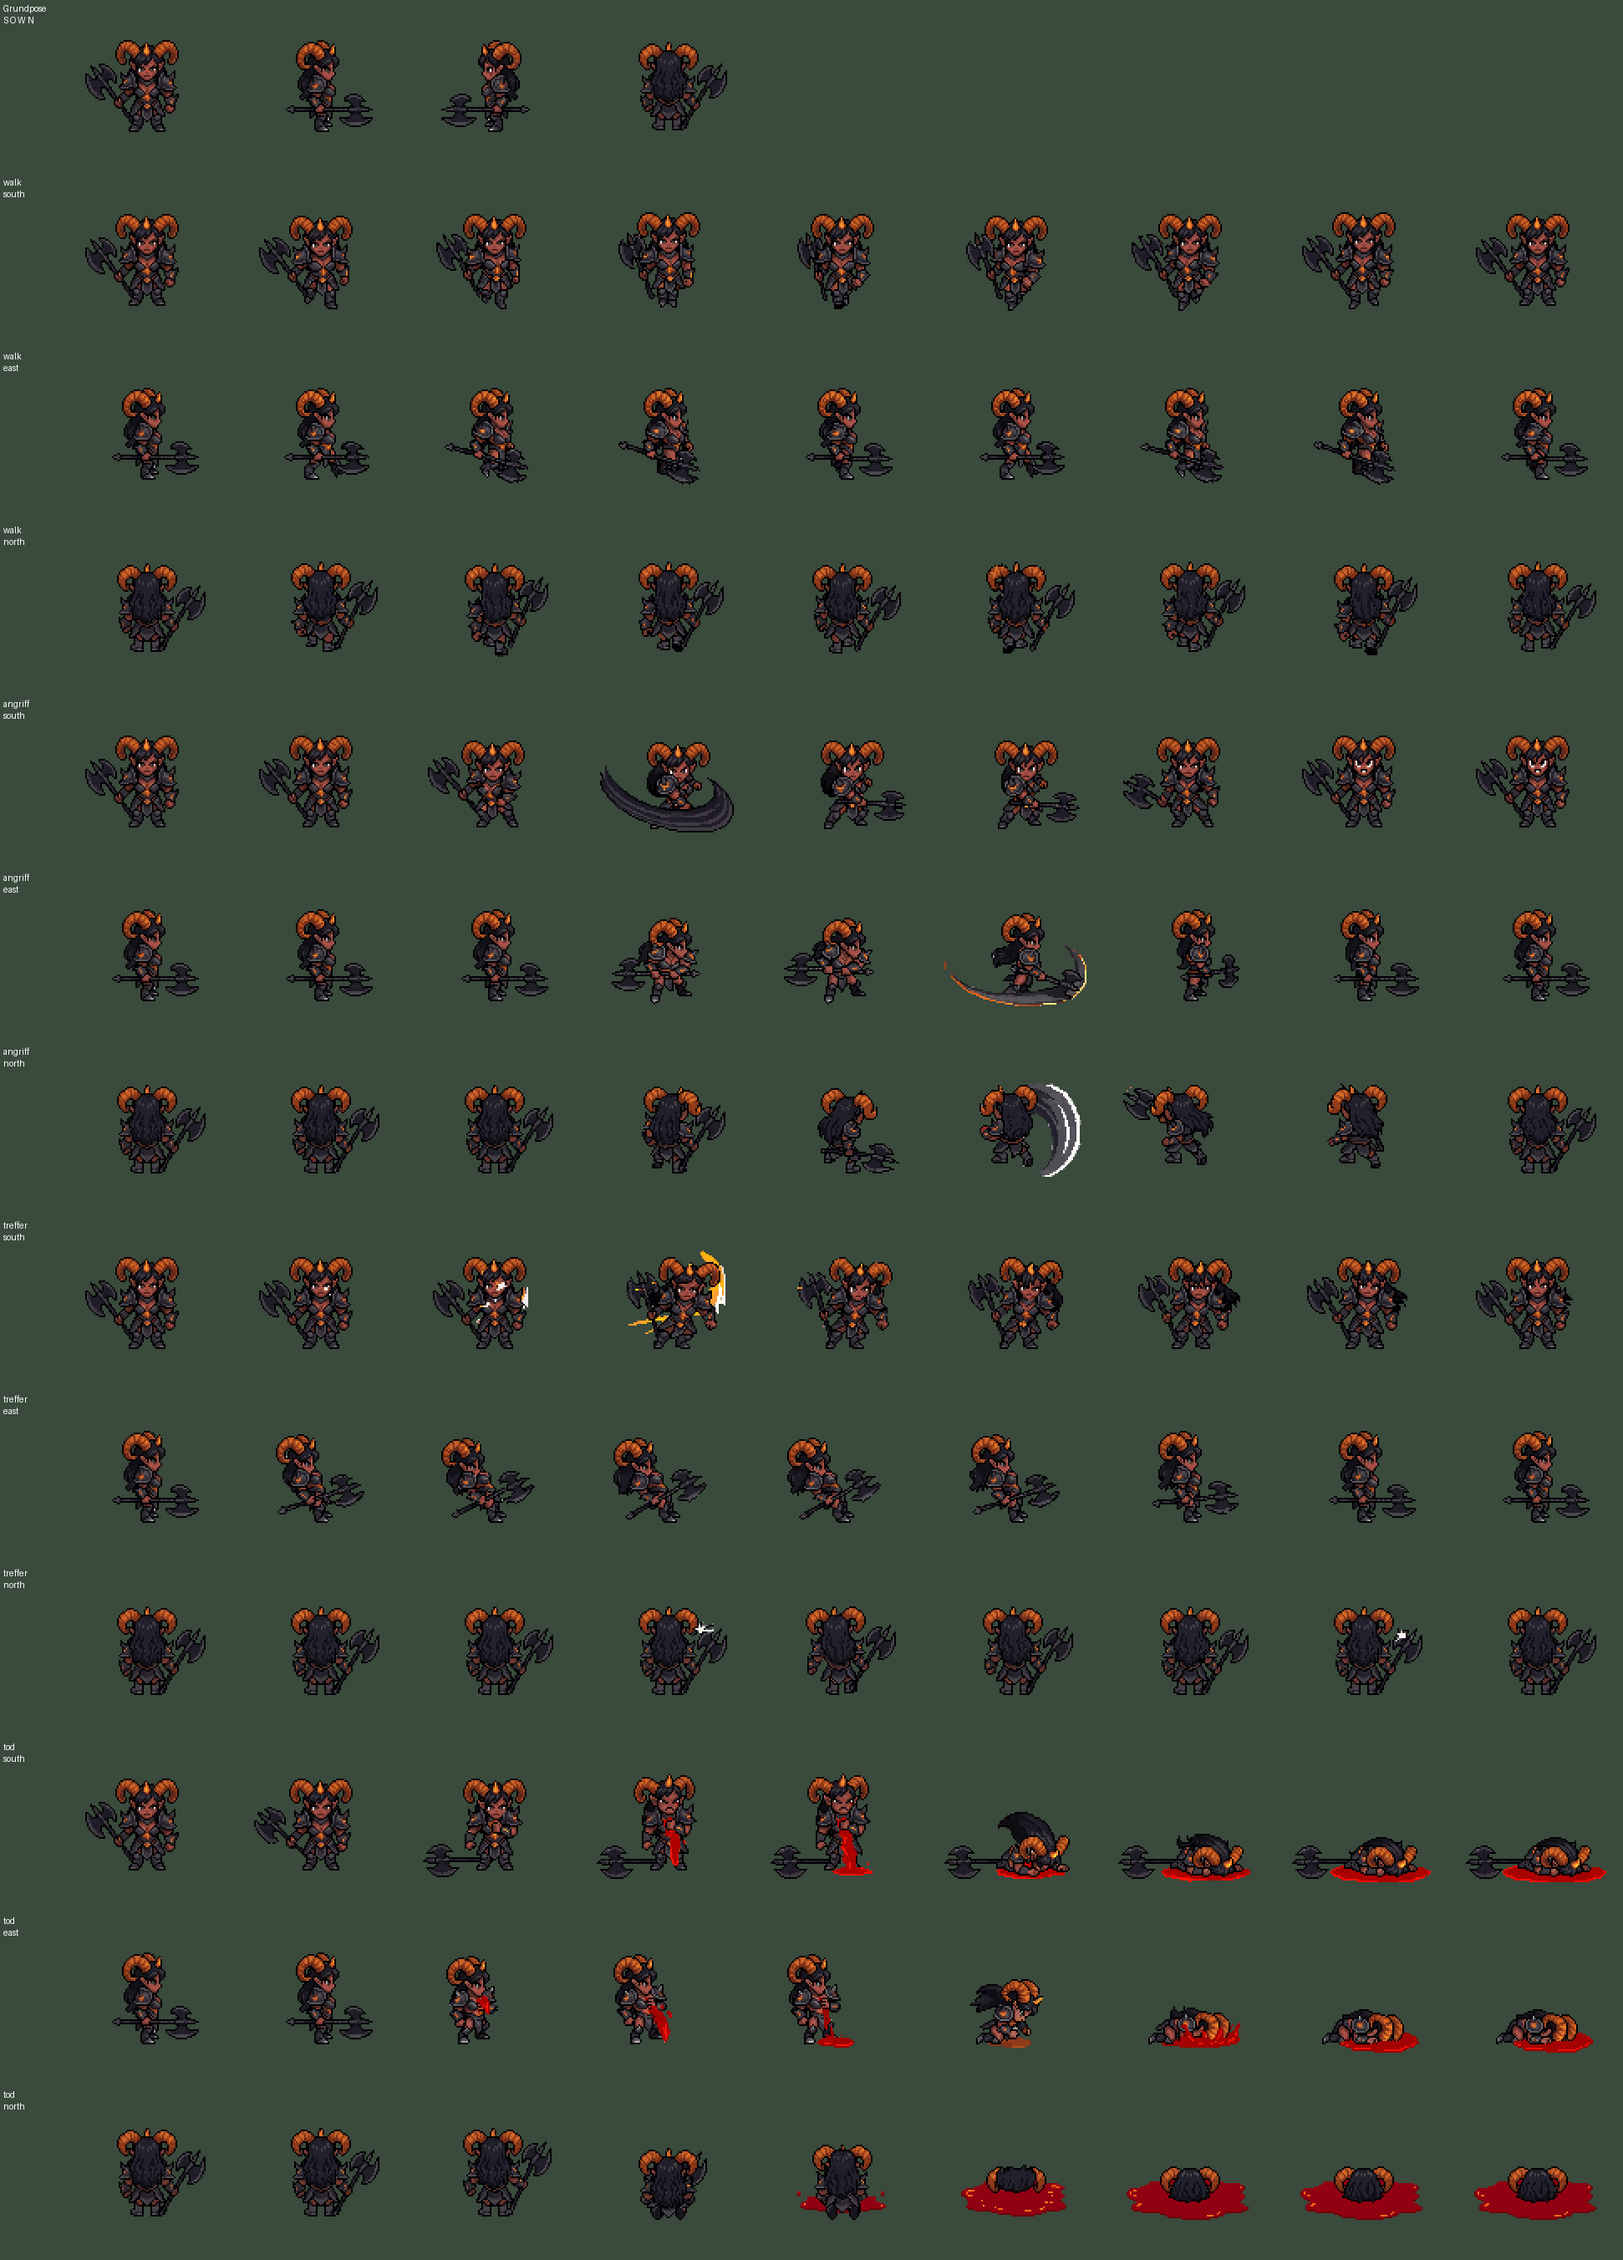
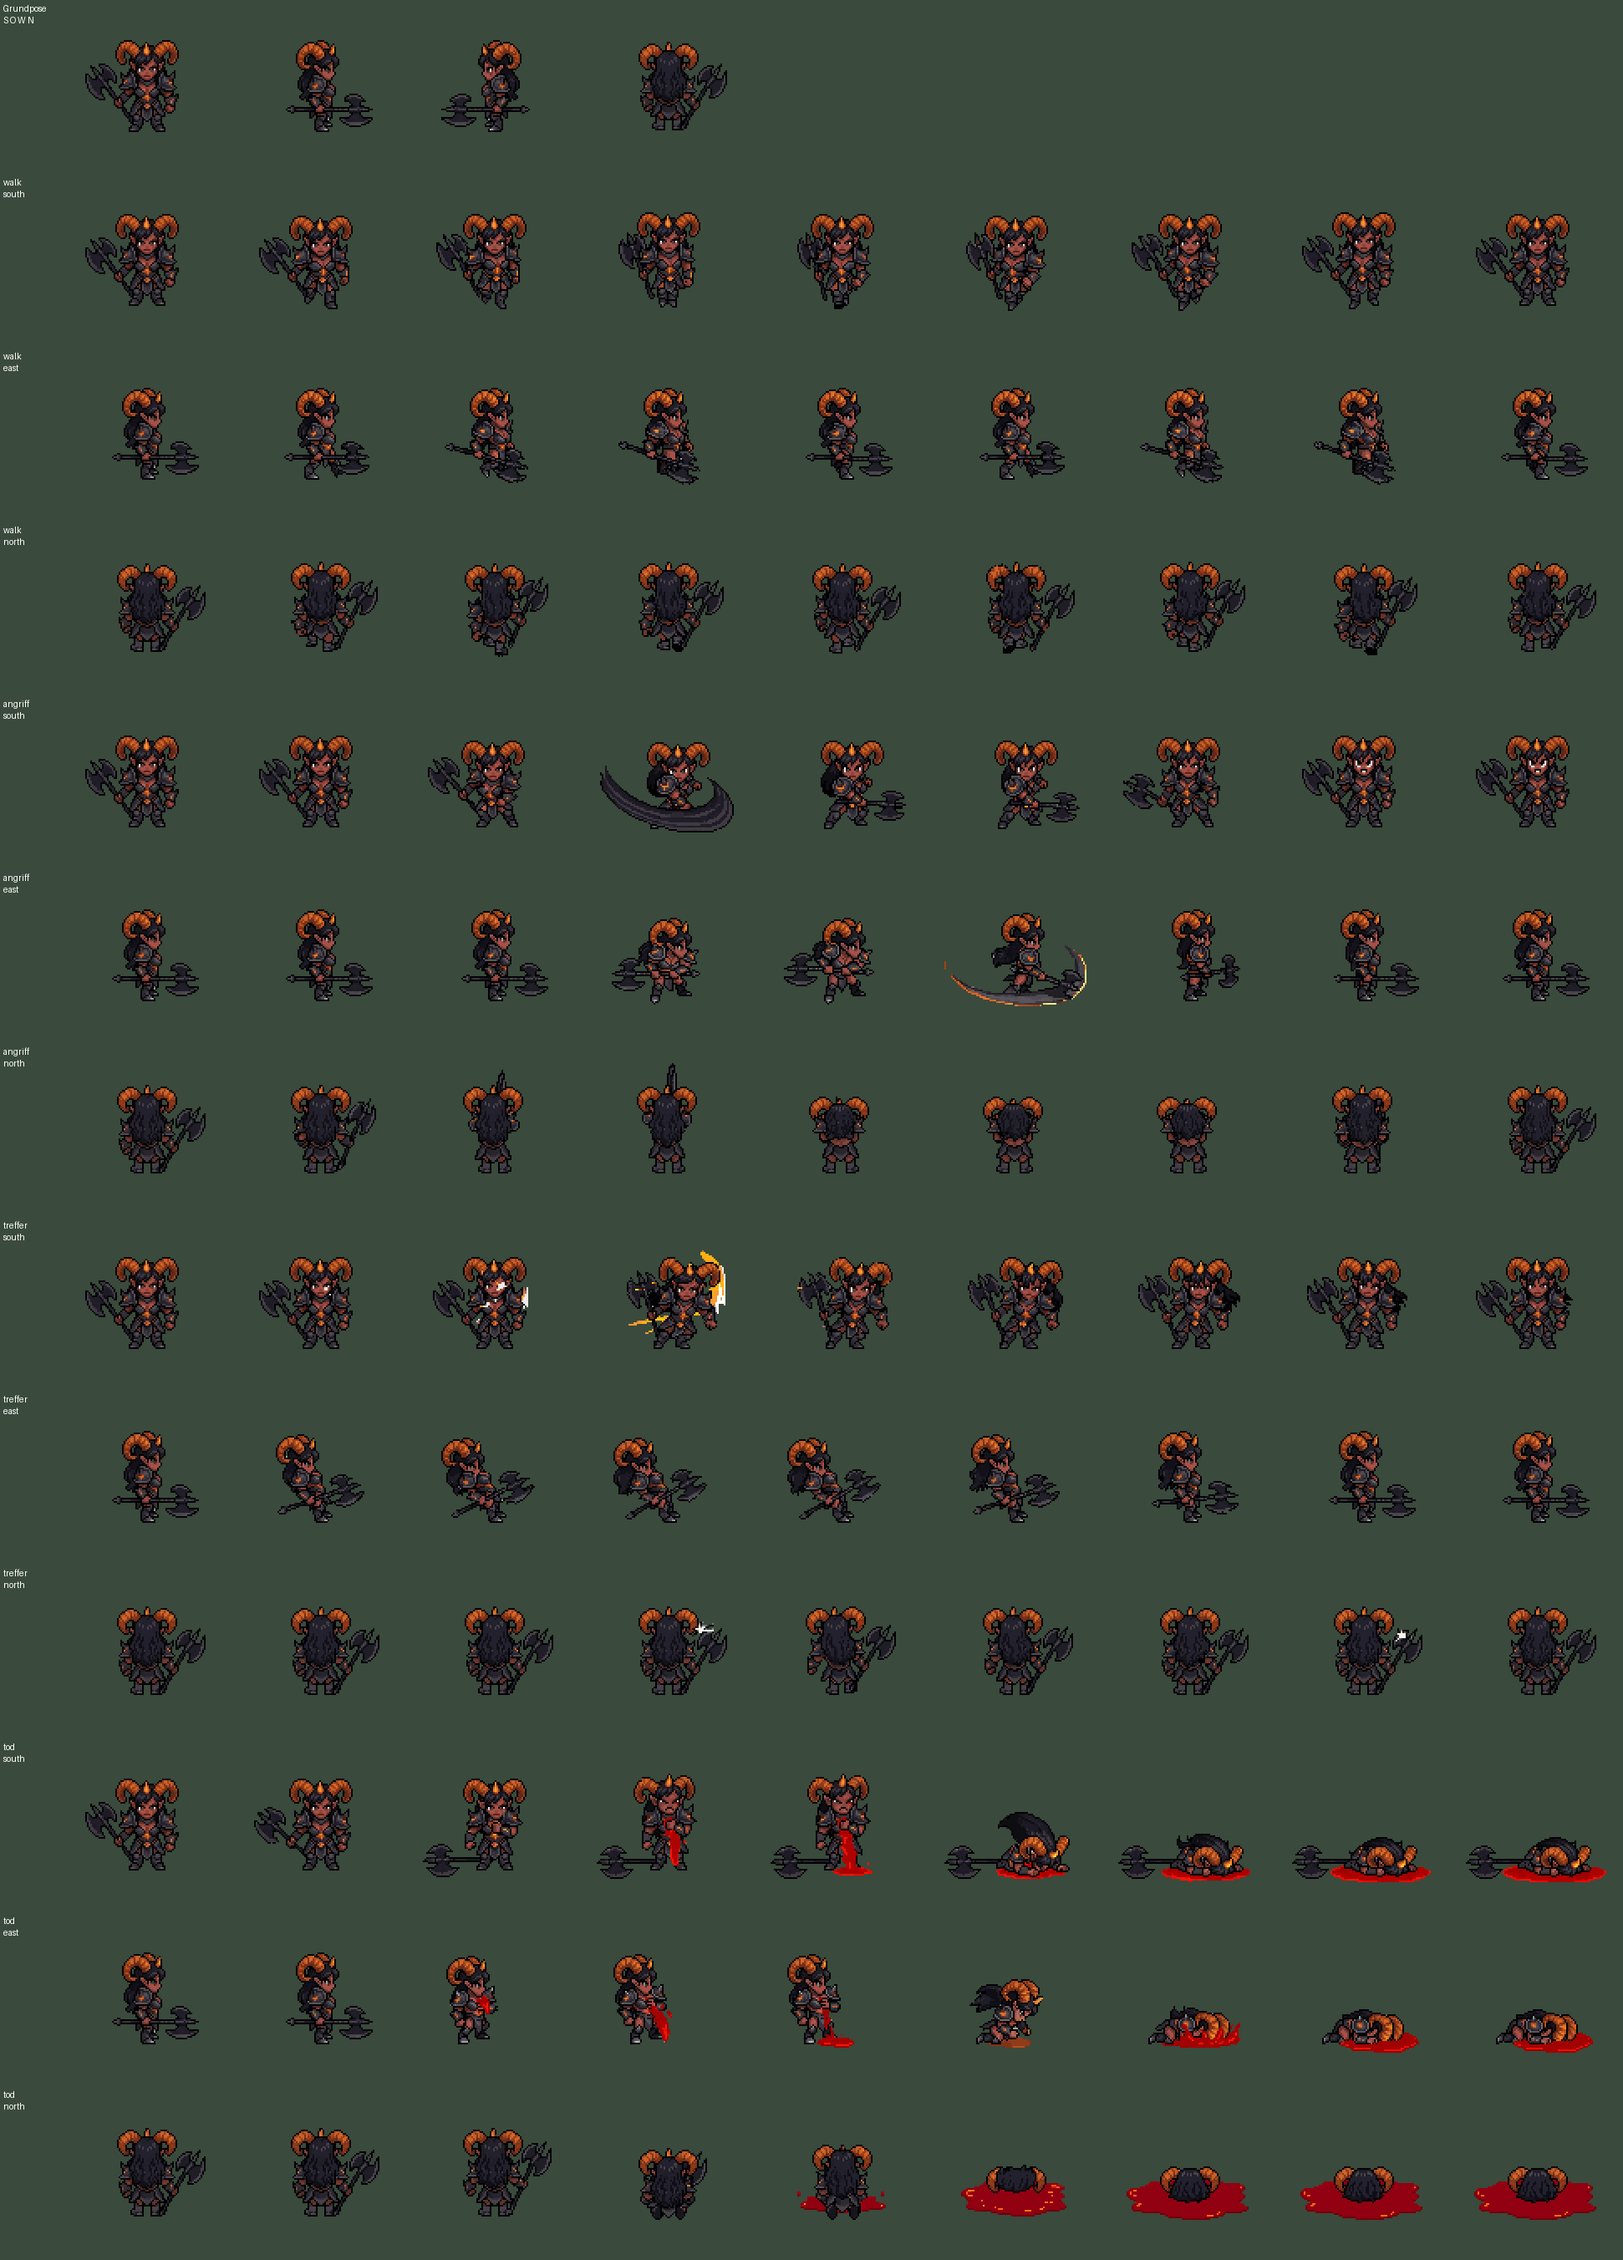
Zyra Angriff Nord: zweiter Reparaturversuch, durchgehend Rueckenansicht
2 Generationen (Guthaben 315,5 -> 313,5). Bogen, GIF und Protokoll aktualisiert,
Fingerabdruck unveraendert eaafed96150e.

Claude-Session: https://claude.ai/code/session_01UYLNtXkprKr1XK4c3X2xQq

diff --git a/docs/design/figuren-kader-dp-21-11.md b/docs/design/figuren-kader-dp-21-11.md
@@ -158,9 +158,12 @@ weiter das alte Bild aus `.figuren-cache`. Der Zeitstempel steht jetzt im Cache-
 neue Streifen zeigt stattdessen einen blauen Lichtring an der Uhr, der im Bild bleibt.
 
 **Offen / Restbefund:**
-- Zyra Angriff Nord dreht im Axtschwung weiter ins Profil (Rücken und Seite, das Gesicht zeigt nicht mehr zur
-  Kamera). Nicht erneut bestellt.
-- Zynara Treffer Süd (roter Hieb-Effekt im zweiten Bild) ist unverändert, das ist ein Effekt, keine Drehung.
+- Zyra Angriff Nord: nach dem ersten Reparaturlauf drehte sie im Axtschwung noch ins Profil. Ein weiterer Versuch
+  (2 Generationen, Hieb über den Kopf statt seitlicher Schwung, „shoulders stay square to the camera, head does not
+  turn“) zeigt jetzt in allen 17 Bildern den Rücken. Preis: die Axt verschwindet beim Niederschlag hinter dem
+  Körper, der Hieb wirkt dadurch zurückhaltender als in Süd und Ost. Damit insgesamt **29 Generationen**,
+  Guthaben nachher **313,54**.
+- Zynara Treffer Süd (roter Hieb-Effekt im zweiten Bild) bleibt so, das ist ein Effekt, keine Drehung (so entschieden).
 
 **Bilder:** neue Kontaktbögen `figuren-kader-dp-21-11/<slug>-bogen.png` (alle sechs, jetzt mit Zeilenbeschriftung)
 und je Figur ein animiertes GIF `figuren-kader-dp-21-11/<slug>-animation.gif` (4×, Spalten
